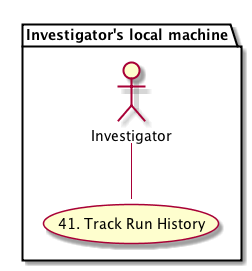
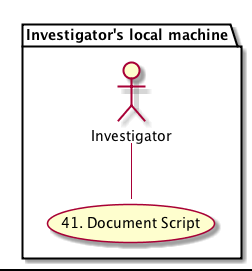
After discussion in our weekly meeting, we decided that the 'Document Script' use case should come before the 'Track Run History' use case since the latter may have a dependency on the former.  I've renamed these files so the 'Document Script' use case is now 41, and 'Track Run History' is now 42.  

Changed region(s): [[0.0, 0.738, 1.0, 1.0]]

diff --git a/docs/use-cases/provenance/use-case-42-Track-Run-History.rst b/docs/use-cases/provenance/use-case-42-Track-Run-History.rst
@@ -1,5 +1,5 @@
 
-DataONE Use Case 41 (Track Run History)
+DataONE Use Case 42 (Track Run History)
 ===================================
 
 Scientists can track, list, and examine script executions
@@ -30,27 +30,27 @@ From this list individual executions can be selected for detailed review, such a
 and inspecting each data product produced by the execution.
 
 The scientist can then select an execution that has produced the desired data producs, and send them to DataONE 
-as detailed in use case #45 (Publish to DataONE).
+as detailed in use case #43 (Publish to DataONE).
 
 *Use case diagram*
 
-.. image:: images/use-case-41.png
+.. image:: images/use-case-42.png
 
 .. 
-    @startuml images/use-case-41.png
+    @startuml images/use-case-42.png
         package "Investigator's local machine" {
         actor "Investigator" as client
-        usecase "41. Track Run History" as record
+        usecase "42. Track Run History" as record
         client -- record
         }
     @enduml
 
 *Sequence diagram*
 
-.. image:: images/sequence-41.png
+.. image:: images/sequence-42.png
 
 .. 
-    @startuml images/sequence-41.png
+    @startuml images/sequence-42.png
         !include ../plantuml.conf
         title: Run Manager record()
         actor scientist

diff --git a/docs/use-cases/provenance/use-case-41-Document-Script.rst b/docs/use-cases/provenance/use-case-41-Document-Script.rst
@@ -1,5 +1,5 @@
 
-DataONE Use Case 42 (Document Script)
+DataONE Use Case 41 (Document Script)
 ===================================
 
 Scientists can document a script's workflow using standardized inline comments.
@@ -25,15 +25,15 @@ While writing a script in R or Matlab, the analyst uses inline comments that com
 *Use case diagram*
 
 .. 
-    @startuml images/use-case-42.png  
+    @startuml images/use-case-41.png  
         package "Investigator's local machine" {
         actor "Investigator" as client
-        usecase "42. Document Script" as document
+        usecase "41. Document Script" as document
         client -- document
         }
     @enduml
 
-.. image:: images/use-case-42.png
+.. image:: images/use-case-41.png
 
 Actors
 ------
